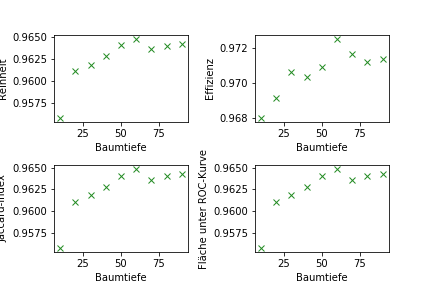
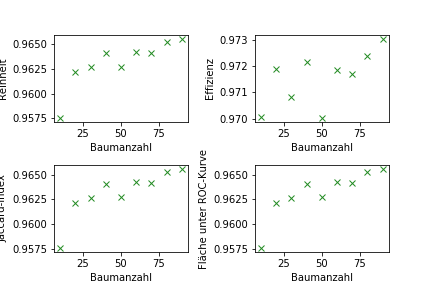
IceCube Protokoll

diff --git a/IceCube/content/theorie.tex b/IceCube/content/theorie.tex
@@ -1,19 +1,20 @@
 \section{Zielsetzung}
-Das Ziel des vorliegenden Versuchs ist es sich anhand von Monte-Carlo-Simulationsdaten mit der Neutrinoselektion am IceCube-Experiment vertraut zu machen. Zum Durchführen der Seperation werden verschiedene Methoden des Maschinellen Lernens verwendet.
+Das Ziel des vorliegenden Versuches ist es, sich anhand von Monte-Carlo-Simulationsdaten mit Methoden der Neutrinoselektion am IceCube-Experiment vertraut zu machen. Zum Durchführen der Seperation werden verschiedene Methoden des Maschinellen Lernens verwendet.
 \section{Theorie}
-Die aktuellen Erkenntnisse in der Astrophysik basierten darauf, dass im 20.Jahrhundert die optische Astronomie auf andere Wellenlängenbereiche erweitert werden konnte. Heutzutage werden neben dem optische Bereich, auch Radio-, Röntgen-, Infrarot-, und Ultraviolettastronomie entwickelt.\\
-Entscheidend ist zudem die durch Victor Heß im Jahre 1912 entdeckte Höhenstrahlung. Sie war bis in die 1950er Jahre die einzige Quelle hochenergetischer Teilchen. Ihre Entdeckung zeigte, dass die Erde bzw. die Atmosphäre neben Photonen auch von anderen Teilchen getroffen wird. Beim Auftreffen der geladenen kosmischen Strahlung ,der sogenannten Primärteilchen, kommt es zur Wechselwirkung mit der Atmosphäre, sodass Teilchenkaskaden aus Sekundärteilchen entstehen. Diese lassen sich über verschiedenen Methoden abhängig von ihren Teilcheneigenschaften nachweisen. Die geladenen kosmische Strahlung setzt sich neben Protonen aus Helium und anderen schweren Kernen zusammen, wobei die genau Zusammensetzung von dem Energiebereich abhängt. Dieses Spektrum wird durch ein Potenzgesetz beschrieben:
+\label{kap:Theorie}
+Die aktuellen Erkenntnisse in der Astrophysik basieren darauf, dass im 20. Jahrhundert die optische Astronomie auf andere Wellenlängenbereiche erweitert werden konnte. Heutzutage werden neben dem optischen Bereich, auch Radio-, Röntgen-, Infrarot-, und Ultraviolettastronomie entwickelt.\\
+Entscheidend ist zudem die durch Victor Heß im Jahre 1912 entdeckte Höhenstrahlung. Sie war bis in die 1950er Jahre die einzige Quelle hochenergetischer Teilchen. Ihre Entdeckung zeigte, dass die Erde bzw. die Atmosphäre neben Photonen auch von anderen Teilchen getroffen wird. Beim Auftreffen der geladenen kosmischen Strahlung, der sogenannten Primärteilchen, kommt es zur Wechselwirkung mit der Atmosphäre, sodass Teilchenkaskaden aus Sekundärteilchen entstehen. Diese lassen sich über verschiedene Methoden abhängig von ihren Teilcheneigenschaften nachweisen. Die geladene kosmische Strahlung setzt sich neben Protonen aus Helium und anderen schweren Kernen zusammen, wobei die genau Zusammensetzung von dem Energiebereich abhängt. Dieses Spektrum wird durch ein Potenzgesetz beschrieben:
 \begin{align}
 	\frac{\text{d}\Phi}{\text{d}E} = \Phi_{0} \cdot E^{\gamma}
 \end{align}
 Der spektrale Index $\gamma$ liegt für die geladene Höhenstrahlung bei $\gamma \approx -2.7$. Dies liegt vor allem daran, dass geladene Materie auf ihrem Weg zur Erde durch galaktische und extragalaktische Magnetfelder abgelenkt werden. Dies verhindert eine Richtungsrekonstruktion, sodass auch ihre Quellen bisher unbekannt sind.
 \subsection{Klassifizierung von Leptonen}
-Bei IceCube werden Leptonen, hauptsächlich Myonen und Neutrinos untersucht. Diese können sowohl aus der Höhenstrahlung als auch astrophysikalischen Quellen stammen und unterscheiden sich durch ihre Energieverteilung und damit dem spektralen Index. \\
-Die Atmosphärischen Myonen und Neutrinos werden außerdem in konventionelle und prompte unterschieden. Die Konventionellen entstehen, wenn bei der Wechselwirkung der geladenen kosmischen Strahlung Pionen oder Kaonen erzeugt werden. Durch ihre teilweise lange Lebensdauer verlieren diese Mesonen Energie, bevor sie in die konventionellen Myonen bzw. Neutrinos zerfallen. Daher gilt für das Spektrum der konventionellen Myonen und Neutrinos $\propto E^{-3.7}$.\\
+Bei IceCube werden Leptonen, hauptsächlich Myonen und Neutrinos, untersucht. Diese können sowohl aus der Höhenstrahlung, als auch astrophysikalischen Quellen stammen und unterscheiden sich durch ihre Energieverteilung und damit dem spektralen Index. \\
+Die Atmosphärischen Myonen und Neutrinos werden außerdem in Konventionelle und Prompte unterschieden. Die Konventionellen entstehen, wenn bei der Wechselwirkung der geladenen kosmischen Strahlung Pionen oder Kaonen erzeugt werden. Durch ihre teilweise lange Lebensdauer verlieren diese Mesonen Energie, bevor sie in die konventionellen Myonen bzw. Neutrinos zerfallen. Daher gilt für das Spektrum der konventionellen Myonen und Neutrinos $\propto E^{-3.7}$.\\
 Bei der Wechselwirkung der geladenen kosmischen Strahlung mit der Atmosphäre können jedoch auch kurzlebige, schwere Hadronen, wie $D$-Mesonen oder $\Lambda_{c}$-Baryonen entstehen. Diese zerfallen ohne nennenswerte Energieverluste weiter in die promten Myonen und Neutrinos. Daher ist deren Spektrum  $\propto E^{-2.7}$ und somit direkt vererbt von der geladenen kosmischen Strahlung.\\
-Es wird davon ausgegangen, dass astrophysikalische Quellen, die Hadronen beschleunigen auch Neutrinos und hochenergetische Photonen emittieren. Da sie ungeladen sind, werden sie nicht durch äußere Magnetfelder abgelenkt und liefern somit Informationen über ihren Ursprung. Der Vorteil von Neutrinos im Gegensatz zu Photonen ist, dass sie durch ihren sehr kleinen Wirkungsquerschnitt ebenfalls Staubwolken und optisch dichte Medien durchdringen können und somit Informationen über das optisch dichtere Innere eines astrophysikalischen Objektes liefern. Unter Annahme von Stoßbeschleunigung nach Fermi \cite{PhysRev.75.1169}, besitzt der astrophysikalische Neutrinofluss einen spektralen Index von  $\propto E^{-2}$.\\
+Es wird davon ausgegangen, dass astrophysikalische Quellen, die Hadronen beschleunigen, auch Neutrinos und hochenergetische Photonen emittieren. Da sie ungeladen sind, werden sie nicht durch äußere Magnetfelder abgelenkt und liefern somit Informationen über ihren Ursprung. Der Vorteil von Neutrinos im Gegensatz zu Photonen ist, dass sie durch ihren sehr kleinen Wirkungsquerschnitt ebenfalls Staubwolken und optisch dichte Medien durchdringen können und somit Informationen über das optisch dichtere Innere eines astrophysikalischen Objektes liefern. Unter Annahme von Stoßbeschleunigung nach Fermi \cite{PhysRev.75.1169}, besitzt der astrophysikalische Neutrinofluss einen spektralen Index von  $\propto E^{-2}$.\\
 \subsection{Das IceCube-Experiment}
-Das IceCube-Experiment wird zur Detektion von hochenergetischen Neutrinos und Myonen genutzt. Es befindet sich am geographischen Südpol in einer Tiefe von $1450-\SI{2450}{\meter}$ unter der Oberfläche in einer klaren Eisschicht. Insgesamt setzt sich der Detektor aus den drei Komponenten Ice-Top \cite{3246225}, In-Ice-Array \cite{ACHTERBERG2006155} und DeepCore \cite{2143409} zusammen. Eine schmatische Darstellung des Detektors befindet sich in Abbildung \ref{fig:Ice}.
+Das IceCube-Experiment wird zur Detektion von hochenergetischen Neutrinos und Myonen genutzt. Es befindet sich am geographischen Südpol in einer Tiefe von $1450-\SI{2450}{\meter}$ unter der Oberfläche in einer klaren Eisschicht. Insgesamt setzt sich der Detektor aus den drei Komponenten Ice-Top \cite{3246225}, In-Ice-Array \cite{ACHTERBERG2006155} und DeepCore \cite{2143409} zusammen. Eine schematische Darstellung des Detektors befindet sich in Abbildung \ref{fig:Ice}.
 \begin{figure}
   \centering
   \includegraphics[width=0.5\textwidth]{graphics/IceCube.png}
@@ -28,19 +29,19 @@ Neutrinos lassen sich bei IceCube über die Sekundärteilchen aus schwacher Wech
 	\nu_{l}(\bar{\nu_{l}}) + A \to l^{\mp} + X (\text{CC})\\
 	\nu_{l} + A \to \nu_{l} + X (\text{NC})
 \end{align}
-Elektronen produzierten auf Grund ihrer geringen Energie einen nahezu sphärischen Schauer im Detektor. Ähnlich verhält es sich für Tau-Leptonen, die auf Grund ihrer kurzen Lebensdauer auch nur eine geringe Reichweite haben, bevor sie zerfallen. Bei nicht zu hohen Energien ähnelt die Signatur somit stark der von Elektronen. \\
-Myonen hingegen haben eine lange Spur, dies liegt an ihrem deutlich langsarem Energieverlust und der daraus resultierenden großen Reichweite. Das Tscherenkov-Licht der Myon selbst ist jedoch zur schwach zur Detektion. Sie werden durch die Schauer der emittierten Photonen und Elektron-Positron-Paare detektiert.\\
+Elektronen produzieren auf Grund ihrer geringen Energie einen nahezu sphärischen Schauer im Detektor. Ähnlich verhält es sich für Tau-Leptonen, die auf Grund ihrer kurzen Lebensdauer auch nur eine geringe Reichweite haben, bevor sie zerfallen. Bei nicht zu hohen Energien ähnelt die Signatur somit stark der von Elektronen. \\
+Myonen hingegen haben eine lange Spur, dies liegt an ihrem deutlich langsameren Energieverlust und der daraus resultierenden großen Reichweite. Das Tscherenkov-Licht der Myonen selbst ist jedoch zu schwach zur Detektion. Sie werden durch die Schauer der emittierten Photonen und Elektron-Positron-Paare detektiert.\\
 Bei den schwachen Wechselwirkungen über neutrale Ströme werden die Kaskaden ausgelöst durch die hadronischen Sekundärteilchen beobachtet. Diese ähneln stark der durch Elektronen ausgelösten Schauer.
 
 \subsection{Messungen von Neutrinos mit IceCube}
 Bei der Messung von Ereignissen wird grundsätzlich zwischen zwei verschiedenen Arten unterschieden. Zum einen den sogenannten \textit{starting events}, die erst im Detektor selber entstehen und zum anderen, den Myon-Ereignissen, die den gesamten Detektor durchqueren. Der Vorteil dabei ist, dass diese zwar im Vergleich zu den \textit{starting events} eine schlechtere Energieauflösung besitzen, aber eine deutlich bessere Winkelauflösung. Die Selektion bei den beiden Ereignisarten unterscheidet sich jedoch grundlegend.\\
-Die Analysetechnik bei den \textit{starting events} nutzt den äußeren Abschnitt des Detektors als Veto, um atmosphärische Myonen zu verwerfen. Da alle Neutrinoflavour gleicher Maßen beitragen, stammen ein Großteil der Ereignisse aus Kaskaden von Wechselwickungen über den neutralen Strom oder Elektron- und Tauechselwirkungen über den geladenen Strom.\\
+Die Analysetechnik bei den \textit{starting events} nutzt den äußeren Abschnitt des Detektors als Veto, um atmosphärische Myonen zu verwerfen. Da alle Neutrinoflavour gleicher Maßen beitragen, stammen ein Großteil der Ereignisse aus Kaskaden von Wechselwickungen über den neutralen Strom oder Elektron- und Tauwechselwirkungen über den geladenen Strom.\\
 Bei den durchquerenden Myon-Ereignissen kann das effektive Volumen für die Analyse erweitert werden, indem die Erde als Abschirmung von atmosphärischen Myonen genutzt wird. Myonen, die von unterhalb des Detektors kommen, stammen somit aus Neutrinowechselwirkungen. Somit ermöglicht ein Schnitt im Zenitwinkel das Trennen von atmosphärischen Myonen und Myonen aus Neutrinowechselwirkungen. Ein Teil der Richtungsrekonstruktion verläuft jedoch fehlerhaft, sodass der Schnitt auf den rekonstruierten Zenitwinkel nur eine Verbesserung vom Signal-Untergrund-Verhältnis von $1:10^{6}$ auf $1:10^{3}$ bringt. Um das Signal-Untergrund-Verhältnis weiter zu verbessern, werden Methoden des Maschinellen Lernens verwendet.
 
 \subsection{Signal-Untergrund-Trennung mit Maschinellen Lernen}
 \label{Signal}
-Um Methoden des Maschinellen Lernens für die Signal-Untergrund-Trennung genutzt werden können. Müssen diese zunächst auf Monte-Carlo-Testdatensätze angewendet werden. Dazu werden zunächst Signal und Untergrund getrennt von einander simuliert. Um ein möglichst einheitliches Bild für beide Datensätze zu erhalten, werden alle Attribute, die nur in einem der beiden Datensätze vorkommen, entfernt. Zudem werden alle Monte-Carlo-Wahrheiten, Eventidentifikationsnummern und Gewichte entfernt. Um fehlerhafte Ergebnisse zu verhindern, müssen zudem Werte, die nicht als Zahl identifiziert werden können, wie zum Beispiel NaN oder Inf entfernt werden. Trifft das auf unter \SI{30}{\percent} der Werte eines Attributes zu, bietet es sich an, diese durch eine Alternative Zahl, die nicht im Wertebereich des Attributes liegt zu ersetzen. Andernfalls sollte auch dieses Attribut verworfen werden. Zudem müssen Signal und Untergrund mit einem binären Label von einander unterschieden werden.\\
-Da solche Datensätze oft eine Vielzahl an Attributen besitzen, bei denen zudem der Informationsgehalt in Bezug auf die Zielklasse sehr stark schwankt, bietet es sich an zuvor Attributsselektion durchzuführen. Damit wird die Laufzeit der multivarianten Lerner stark verringert. Ein mögliches Verfahren zu Attributsselektion ist die \textit{Forward Selection}.
+Um Methoden des Maschinellen Lernens für die Signal-Untergrund-Trennung nutzen zu können, müssen diese zunächst auf Monte-Carlo-Testdatensätze angewendet werden. Dazu werden zunächst Signal und Untergrund getrennt von einander simuliert. Um ein möglichst einheitliches Bild für beide Datensätze zu erhalten, werden alle Attribute, die nur in einem der beiden Datensätze vorkommen, entfernt. Zudem werden alle Monte-Carlo-Wahrheiten, Eventidentifikationsnummern und Gewichte entfernt. Um fehlerhafte Ergebnisse zu verhindern, müssen zudem Werte, die nicht als Zahl identifiziert werden können, wie zum Beispiel NaN oder Inf entfernt werden. Trifft das auf unter \SI{30}{\percent} der Werte eines Attributes zu, bietet es sich an, diese durch eine alternative Zahl, die nicht im Wertebereich des Attributes liegt, zu ersetzen. Andernfalls sollte auch dieses Attribut verworfen werden. Zudem müssen Signal und Untergrund mit einem binären Label von einander unterschieden werden.\\
+Da solche Datensätze oft eine Vielzahl an Attributen besitzen, bei denen zudem der Informationsgehalt in Bezug auf die Zielklasse sehr stark schwankt, bietet es sich an, zuvor eine Attributsselektion durchzuführen. Damit wird die Laufzeit der multivarianten Lerner stark verringert. Ein mögliches Verfahren zur Attributsselektion ist die \textit{Forward Selection}.
 \subsubsection{Vorwärtsauswahl}
 Die Vorwärtsauswahl (\textit{engl.: Forward Selection}) arbeitet iterativ und ist abhängig von dem verwendeten Lerner. Dieser erzeugt ein Modell, welchem die Vorwärtsauswahl iterativ die Variable hinzufügt, welche zusammen mit den bereits ausgwählten Variablen die Vorhersagekraft des Modells am meisten erhöht.
 \subsubsection{Stabilitätsanalyse mit dem Jaccard-Index}
@@ -53,7 +54,7 @@ Der Index $\hat{J}$ erlaubt die Ähnlichkeit verschiedener Selektionen zu beurte
 	\hat{J} = \frac{2}{l(l-1)} \sum^{l}_{i=1} \sum^{l}_{j=i+1} J(F_{i},F_{j})
 \end{align}
 
-Die Attributsauswahl ist stabil gegenüber statistischen Schwankungen, wenn der Wert nahe zu $1$ ergibt.
+Die Attributsauswahl ist stabil gegenüber statistischen Schwankungen, wenn der Wert nahezu $1$ ergibt.
 % \subsubsection{mRMR-Auswahl}
 % Die mRMR-Auswahl (\textit{engl.: minimum Redundancy, Maximum Relevance}) basiert auf der Betrachtung der Wahrscheinlichkeitsverteilungen der zur Verfügung stehend Varaiblen. Die mRMR-Selektion wählt dabei die Attribute iterativ aus, indem sie nach welchen sucht, die möglichst stark mit der Zielvariable, aber möglichst gering untereinander korreliert sind. Dabei nutzt sie unter anderem den gemeinsamen Informationsgehalt $I(x,y)$ zweier Variablen $x,y$:
 % \begin{align}
@@ -61,32 +62,33 @@ Die Attributsauswahl ist stabil gegenüber statistischen Schwankungen, wenn der 
 % \end{align}
 % Wobei $p(x), p(y)$ und $p(x,y)$ die Wahrscheinlichkeitsverteilungen der betreffenden Variablen sind. Die Zielvariable des vorliegenden Versuchs ist dabei die Klasse des Ereignisses, also ob es sich um ein Signal- oder Untergrundereignis handelt.
 \subsubsection{Verschiedene Lernalgorithmen}
-Ein Lernalgorithmus ist der Naive-Bayes-Lerner, der auf dem Bayes'schen Theorem über bedingte Wahrscheinlichkeiten basiert:
+Ein Lernalgorithmus ist der Naive-Bayes-Lerner, der auf dem Bayes'schen Theorem über bedingte Wahrscheinlichkeiten 
 \begin{align}
 	p(A|B) = \frac{p(B|A)p(A)}{p(B)}
 \end{align}
 basiert. Wenn $A$ die Klassenzugehörigkeit ($A$ Signal, $\bar{A}$ Untergrund) bezeichnet und $B$ ein Attribut ist, dann gilt für den Audruck
 \begin{align}
-	Q = \frac{p(A|B)}{p(\bar{A}|B)} = \frac{p(B|A)p(A)}{p(B|\bar{A})p(\bar{A})}
+	Q = \frac{p(A|B)}{p(\bar{A}|B)} = \frac{p(B|A)p(A)}{p(B|\bar{A})p(\bar{A})},
 \end{align}
-dass er einen Wert von mehr als 1 annimmt, wenn das Ereignis mit größerer Wahrscheinlichkeit Signal und nicht Untergrund ist. Unter der naiven Annahme, dass Attribute nur von der Klassenzugehörigkeit abhängen, ergibt die $Q$ mit mehreren Attributen zu:\\
+dass er einen Wert von mehr als 1 annimmt, wenn das Ereignis mit größerer Wahrscheinlichkeit Signal und nicht Untergrund ist. Unter der naiven Annahme, dass Attribute nur von der Klassenzugehörigkeit abhängen, ergibt sich $Q$ mit mehreren Attributen zu:\\
 \begin{align}
 	Q = \frac{p(A|B_{1},...,B_{n})}{p(\bar{A}|B_{1},...,B_{n})} = \prod_{i=1}^{n} \frac{p(B_{i}|A)}{p(B_{i}|\bar{A})}
 \end{align}
 Der kNN-Klassifikator (\textbf{k} \textbf{N}ächste \textbf{N}achbarn) klassifiziert die Klasse eines Ereignisses, indem er die $k$ umliegenden Ereignisse betrachtet und das Ereignis anhand des Mittelwerts der umliegenden Ereignisse klassifiziert.\\
-Ein dritter Klassifikator ist der Random Forest, der auf binären Entscheidungsbäumen basiert. Dabei wird an jedem Knoten eines Entscheidungsbaum ein Schnitt angewendet und die entstehenden Teilmengen werden auf die beiden Äste aufgeteilt. Dieses Verfahren wird entweder bis zu einer gewissen Tiefe fortgeführt oder bis die Blätter nur Ereignisse der selben Klasse erhalten. Um die Effekte des Übertrainierens zu minimieren, kann über eine Menge unterschiedlicher Entscheidungsbäume gemittelt werden. Eine mögliche Strategie dafür ist, dass jeder Baum nur auf einer Teilmenge des Trainingsdatensatz trainiert wird und die $k$ Attribute für den Schnitt an jedem Knoten zufällig gewählt werden. Die Confidence $c$, also Entscheidung des Random Forst ist das arithmetische Mittel über die Entscheidungen $P_{i}$ der $N$ Einzelbäume.
+Ein dritter Klassifikator ist der Random Forest, der auf binären Entscheidungsbäumen basiert. Dabei wird an jedem Knoten eines Entscheidungsbaum ein Schnitt angewendet und die entstehenden Teilmengen werden auf die beiden Äste aufgeteilt. Dieses Verfahren wird entweder bis zu einer gewissen Tiefe fortgeführt oder bis die Blätter nur Ereignisse der selben Klasse enthalten.
+Um die Effekte des Übertrainierens zu minimieren, kann über eine Menge unterschiedlicher Entscheidungsbäume gemittelt werden. Eine mögliche Strategie dafür ist, dass jeder Baum nur auf einer Teilmenge des Trainingsdatensatz trainiert wird und die $k$ Attribute für den Schnitt an jedem Knoten zufällig gewählt werden. Die Confidence $c$, also Entscheidung des Random Forst ist das arithmetische Mittel über die Entscheidungen $P_{i}$ der $N$ Einzelbäume.
 \begin{align}
 	c = \frac{1}{N} \sum_{i=1}^{N}P_{i} \; \text{mit} P_{i} \in \{0,1\}
 \end{align}
 \subsubsection{Qualitätsparameter}
-Die Güte einer Klassifikation lässt sich mit den Qualitätsparametern bewerten. Diese basierten auf der Anzahl der korrekt als Signal (\textit{tp, true positiv}) bzw. Untergrund (\textit{tn, true negativ}) und der fälschlicher Weise als Signal (\textit{fp, false positiv}) bze. Untergrund (\textit{fn, false negativ}) klassifizierten Ereignisse. Es lassen sich die beiden Parameter:
+Die Güte einer Klassifikation lässt sich mit den Qualitätsparametern bewerten. Diese basierten auf der Anzahl der korrekt als Signal (\textit{tp, true positiv}) bzw. Untergrund (\textit{tn, true negativ}) und der fälschlicher Weise als Signal (\textit{fp, false positiv}) bzw. Untergrund (\textit{fn, false negativ}) klassifizierten Ereignisse. Es lassen sich die beiden Parameter
 \begin{align}
-	\text{Reinheit} p &= \frac{tp}{tp+fp}\\
-	\text{Effizienz} r &= \frac{tp}{tp+fn}
+	\text{Reinheit}\, p &= \frac{tp}{tp+fp}\\
+	\text{Effizienz}\, r &= \frac{tp}{tp+fn}
 \end{align}
 bestimmen. Wichtig ist dabei, dass je nach Ziel der Analyse einer der beiden Parameter optimiert wird. Ist zum Beispiel eine sehr reine Trennung sehr wichtig, aber es ist nicht wichtig für statistische Untersuchungen eine gewisse Anzahl an Ereignissen zu haben, bietet es sich an die Reinheit zu maximieren.
 \subsubsection{Kreuzvalidierung}
-Die Kreuzvalidierung ist ein Werkzeug, dass es ermöglicht einen Fehler auf die Qualitätsparameter anzugeben. Dieser entsteht auf Grund von statistischen Schwankungen im Trainingsdatensatz. Dazu word der Trainingsdatensatz in $n$ Datensätze aufgeteilt. Von diesen Teildatensätzen werden $n-1$ zum trainieren des Lerners verwendet. Mit dem $n$-ten Datensatz wird schließlich die Klassifikation mit dem erhaltenden Lernen aufgestellt. Dieses Verfahren wird $n$-mal durchgeführt, sodass jeder Datensatz einmal Testdatensatz war. Aus den $n$ Qualitätsparametern lässt sich schließlich ein Mittelwert und der zugehörige Fehler auf diesen berechnen.
+Die Kreuzvalidierung ist ein Werkzeug, dass es ermöglicht einen Fehler auf die Qualitätsparameter anzugeben. Dieser entsteht auf Grund von statistischen Schwankungen im Trainingsdatensatz. Dazu wird der Trainingsdatensatz in $n$ Datensätze aufgeteilt. Von diesen Teildatensätzen werden $n-1$ zum trainieren des Lerners verwendet. Mit dem $n$-ten Datensatz wird schließlich die Klassifikation mit dem erhaltenden Lerner aufgestellt. Dieses Verfahren wird $n$-mal durchgeführt, sodass jeder Datensatz einmal Testdatensatz war. Aus den $n$ Qualitätsparametern lässt sich schließlich ein Mittelwert und der zugehörige Fehler auf diesen berechnen.
 \subsubsection{Monte-Carlo-Simulationen}
-Kann ein Experiment gar nicht oder nur sehr aufwendig analytisch beschrieben werden, bietet die Verwendung von Monte-Carlo-Simulationen eine Alternative. Dabei wird ein Experiment unter Verwenung von Zufallszahlen simuliert. \\
-In der Teilchenphysik werden sie häufig zum bereitstellen von Pseudodaten genutzt. Da die Eigenschaften der Signal- und Untergrundereignisse bekannt ist, bieten sie sich zum Beispiel zur Klassifizierung von Rekonstruktionsalgorithmen an. Analog können mir ihnen aber auch Analysen zur Signal-Untergrund-Trennung durchgeführt werden. Dieses Vorgehen wird in diesem Versuch durchgeführt.
+Kann ein Experiment gar nicht oder nur sehr aufwendig analytisch beschrieben werden, bietet die Verwendung von Monte-Carlo-Simulationen eine Alternative. Dabei wird ein Experiment unter Verwendung von Zufallszahlen simuliert. \\
+In der Teilchenphysik werden sie häufig zum Bereitstellen von Pseudodaten genutzt. Da die Eigenschaften der Signal- und Untergrundereignisse bekannt sind, bieten sie sich zum Beispiel zur Klassifizierung von Rekonstruktionsalgorithmen an. Analog können mit ihnen auch Analysen zur Signal-Untergrund-Trennung durchgeführt werden. Dieses Vorgehen wird in diesem Versuch durchgeführt.

diff --git a/IceCube/content/auswertung.tex b/IceCube/content/auswertung.tex
@@ -1,9 +1,174 @@
-\section{Auswertung}
+\section{Auswertung der Daten}
+Für die Auswertung der Daten werden im Folgenden die Pakete \textit{pandas} \cite{pandas}, \textit{numpy} \cite{numpy} und \textit{sklearn} \cite{sklearn} verwendet, während die Plots durch das Paket \textit{matplotlib.pyplot} \cite{matplotlib} erstellt werden.
 
+\subsection{Vorbereitung}
+Aus den Daten werden zu Beginn sowohl die Features entfernt, welche nicht in beiden Datensätzen zu finden sind, als auch die Features, welche Monte-Carlo-Wahrheiten, Identifikationsnummern oder Gewichte repräsentieren. Für das Letztere werden die Features mit den Stichworten
+\begin{itemize}
+    \item Corsica
+    \item MC
+    \item Weight
+    \item ID
+    \item Header
+    \item SPline
+\end{itemize}
+aus den Datensätzen entfernt. Übrig bleiben 188 Attribute, welche für die Lerner genutzt werden können.
 
+Des Weiteren werden alle Einträge, welche ein $NaN$ oder $Inf$ enthalten, durch den Wert $-5000$ ersetzt. Es kann angenommen werden, dass dieser Wert nicht auf natürliche Weise durch die simulierten Daten erreicht wird. 
+
+Die Daten werden im Anschluss durch die Zahlen 0 und 1 gelabelt, wobei die Zahl null für den Untergrund und die Zahl eins für das Signal verwendet wird. 
+
+Der Datensatz wird zudem mit der Funktion \textit{StandardScaler} skaliert.
+
+\subsection{Auswahl der Attribute}
+Die Features für die Lerner werden mit Hilfe einer Forward-Selection ausgewählt. Es wird die Implementierung \textit{SelectKBest} von \textit{sklearn.feature\_selection} verwendet. Die Anzahl der Features wird im Folgenden zunächst im Intervall von 20 bis 150 in Zehnerschritten varriiert. 
+
+Im Anschluss wird der Datensatz mittels \textit{train\_test\_split} in einen Test- und einen Trainingsdatensatz aufgeteilt. Hierbei werden $\SI{30}{\%}$ des Datensatzes zum Testen verwendet.
+
+\subsection{Random-Forest-Klassifikator}
+Als erster Lerner wird ein Random-Forest-Modell über die Funktion \textit{RandomForestClassifier} von \textit{sklearn.ensemble} mit einer Baumanzahl von 100 erstellt, die Lerndatensätze mit verschiedenen Featureanzahlen trainiert und anschließend die Klassen der Testdatensätze vorhergesagt. Aus diesen Informationen werden anschließend die Reinheit mittels der Funktion \textit{accuracy\_score}, die Effizienz mittels \textit{precision\_score}, der Jaccard-Index mittels \textit{jaccard\_similarity\_score} und die Fläche unter der ROC-Kurve mit der Funktion \textit{roc\_auc\_score} nach den Zusammenhängen aus Kapitel \ref{kap:Theorie} berechnet und in Abhängigkeit von der Featureanzahl in Abbildung \ref{fig:RF_Feat} abgebildet.
+\begin{figure}
+    \centering
+    \includegraphics[width=0.7\textwidth]{plots/RF_featurezahl.png}
+    \caption{Qualitätsparameter der Random-Forest-Klassifizierung in Abhängigkeit von der Featureanzahl. Von links oben: Reinheit, Effizienz, Jaccard-Index und Fläche unter der ROC-Kurve.}
+    \label{fig:RF_Feat}
+  \end{figure}
+  \FloatBarrier
+  Alle vier Parameter steigen zu Beginn um etwa zwei Prozentpunkte an und gehen dann anschließend in eine Sättigung über. Als beste Featureanzahl wird der erste Wert im Sättigungsbereich verwendet, welcher durch den Wert 40 gegeben ist. Für diese wird die Random-Forest-Klassifizierung erneut für zehn verschiedene Baumanzahlen im Bereich von 10 bis 100 durchgeführt. Die Qualitätsparameter für die unterschiedlichen Baumzahlen sind Abbildung \ref{fig:RF_Tiefe} zu entnehmen.
+  \begin{figure}
+    \centering
+    \includegraphics[width=0.7\textwidth]{plots/RF_baumtiefe.png}
+    \caption{Qualitätsparameter der Random-Forest-Klassifizierung in Abhängigkeit von der Baumanzahl. Von links oben: Reinheit, Effizienz, Jaccard-Index und Fläche unter der ROC-Kurve.}
+    \label{fig:RF_Tiefe}
+  \end{figure}
+  \FloatBarrier
+  Es lässt sich erkennen, dass die Baumanzahl lediglich einen sehr geringen Einfluss von weniger als einen Prozentpunkt auf die Qualitätsparameter hat. Um Rechenzeit zu sparen wird deshalb im Folgenden eine minimale Baumanzahl von 10 verwendet.
+
+  Für die gefundenen Parameter wird eine Cross-Validation durchgeführt. Hierzu wird die Funktion \textit{cross\_val\_score} genutzt und der Datensatz in 5 Teile gesplittet.
+  Die gefundenen Qualitätsparameter sind in Tabelle \ref{tab:RF} dargestellt und werden über die 5 Durchläufe gemittelt.
+  \begin{table}[ht]
+    \centering
+    \caption{Qualitätsparameter der Cross-Validation für den Random-Forest-Klassifikator.}
+    \label{tab:RF}
+    \sisetup{table-format=2.1}
+    \begin{tabular} { c | c c c}
+    \toprule
+    {} & {Reinheit} & {Effizienz} & {AUC} \\
+    \midrule
+        & 0.914 & 0.881 & 0.975 \\
+       & 0.955 & 0.975 &  0.989\\
+       & 0.961 & 0.984 &  0.992\\
+       & 0.960 & 0.985 &  0.991 \\
+       & 0.962 & 0.985 &  0.994 \\
+    \midrule
+      Mittelwert & 0.950 \pm 0.009 & 0.962 \pm 0.020 &  0.988 \pm 0.003 \\
+    \bottomrule
+    \end{tabular}
+    \end{table}
+    \FloatBarrier 
+Zuletzt wird die Vorhersagekraft des besten Random-Forest-Modells in einer sogenannten Confusion-Matrix (deutsch: Wahrheits-Matrix) dargestellt. Diese stellt die Rate der richtig bzw. falsch zugeordneten Klassen dar. Das Label 0 repräsentiert hierbei den Untergrund und der Wert 1 das Signal. Die Matrix wird über die Funktion \textit{confusion\_matrix} berechnet und über die Funktion \textit{plot\_confusion\_matrix} nach \textit{sklearn} geplottet. Die Confusion-Matrix für den Random-Forest-Klassifikator ist in Abbildung \ref{fig:RF_Conf} zu sehen.
+\begin{figure}
+    \centering
+    \includegraphics[width=0.7\textwidth]{plots/RF_confusion.png}
+    \caption{Confusion-Matrix für den Random-Forest-Klassifikator mit einer Tiefe von 10 und einer Featureanzahl von 40 (0: Untergrund, 1: Signal).}
+    \label{fig:RF_Conf}
+  \end{figure}
+  \FloatBarrier
+
+  \subsection{kNN-Klassifikator}
+  Das kNN-Klassifikator-Modell wird mittels der Funktion \textit{KNeighborsClassifier} von \textit{sklearn.neighbors} erstellt. Für eine Nachbaranzahl von 10 werden zunächst analog zum Random-Forest-Klassifikator die Qualitätsparameter für unterschiedliche Featureanzahlen ermittelt und in Abbildung \ref{fig:kNN_feat} dargestellt.
+  \begin{figure}
+    \centering
+    \includegraphics[width=0.7\textwidth]{plots/kNN_featurezahl.png}
+    \caption{Qualitätsparameter der kNN-Klassifizierung in Abhängigkeit von der Featureanzahl. Von links oben: Reinheit, Effizienz, Jaccard-Index und Fläche unter der ROC-Kurve.}
+    \label{fig:kNN_feat}
+  \end{figure}
+  \FloatBarrier
+Es lässt sich eine Schwankung um etwa zwei Prozentpunkte mit einem klaren Maximum bei einer Featureanzahl von 50 erkennen. Dieser Wert wird im Folgenden als Bestwert verwendet.
+Außerdem werden die Qualitätsparameter erneut in Abhängigkeit von der Anzahl an nächsten Nachbarn ermittelt und in Abbildung \ref{fig:kNN_nachbarn} aufgetragen. Die Nachbaranzahl wird hierbei von 10 bis 100 in Zehnerschritten varriiert.
+\begin{figure}
+    \centering
+    \includegraphics[width=0.7\textwidth]{plots/kNN_nachbarzahl.png}
+    \caption{Qualitätsparameter der kNN-Klassifizierung in Abhängigkeit von der Anzahl an Nachbarn. Von links oben: Reinheit, Effizienz, Jaccard-Index und Fläche unter der ROC-Kurve.}
+    \label{fig:kNN_nachbarn}
+  \end{figure}
+  \FloatBarrier
+Es lässt sich ein kontinuierlicher Abfall der Werte mit der Anzahl der Nachbarn um etwa einen halben Prozentpunkt beobachten. Aus diesem Grund wird als bester Fall die Nachbaranzahl 10 festgelegt.
+Im Anschluss wird analog zum vorherigen Unterkapitel eine Cross-Validation für das beste Modell durchgeführt. Die Ergebnisse sind in Tabelle \ref{tab:kNN} abgebildet.
+\begin{table}[ht]
+    \centering
+    \caption{Qualitätsparameter der Cross-Validation für den kNN-Klassifikator.}
+    \label{tab:kNN}
+    \sisetup{table-format=2.1}
+    \begin{tabular} { c | c c c}
+    \toprule
+    {} & {Reinheit} & {Effizienz} & {AUC} \\
+    \midrule
+        & 0.886 & 0.854 & 0.961 \\
+       & 0.945 & 0.958 &  0.985\\
+       & 0.953 & 0.976 &  0.988\\
+       & 0.952 & 0.977 &  0.987 \\
+       & 0.953 & 0.978 &  0.988 \\
+    \midrule
+      Mittelwert & 0.938 \pm 0.013 & 0.949 \pm 0.024 &  0.982 \pm 0.005 \\
+    \bottomrule
+    \end{tabular}
+    \end{table}
+    \FloatBarrier 
+Die Confusion-Matrix für das beste Modell ist in Abbildung \ref{fig:kNN_conf} zu erkennen.
+\begin{figure}
+    \centering
+    \includegraphics[width=0.7\textwidth]{plots/kNN_confusion.png}
+    \caption{Confusion-Matrix für den kNN-Klassifikator mit einer Nachbaranzahl von 10 und einer Featureanzahl von 50 (0: Untergrund, 1: Signal).}
+    \label{fig:kNN_conf}
+  \end{figure}
+  \FloatBarrier
+
+\subsection{Naive-Bayes-Lerner}
+Als dritter Klassifikator wird ein Naive-Bayes-Lerner über die Funktion \textit{GaussianNB} von \textit{sklearn.naive\_bayes} verwendet. Analog zu den vorherigen Kapiteln werden zunächst erneut die Qualitätsparameter in Abhängigkeit von der Featureanzahl ermittelt und in Abbildung \ref{fig:NB_feat} dargestellt.
 \begin{figure}
   \centering
-  \includegraphics{plots/plot.pdf}
-  \caption{Plot.}
-  \label{fig:plot}
+  \includegraphics[width=0.7\textwidth]{plots/NB_featurezahl.png}
+  \caption{Qualitätsparameter der Naive-Bayes-Klassifizierung in Abhängigkeit von der Featureanzahl. Von links oben: Reinheit, Effizienz, Jaccard-Index und Fläche unter der ROC-Kurve.}
+  \label{fig:NB_feat}
 \end{figure}
+\FloatBarrier
+Die Werte steigen zunächst kontinuierlich an und nehmen ein Maximum bei $k_\mathrm{NB} = 60$ an. Anschließend fallen sie mit einigen Schwankungen wieder ab. Der maximale Wert wird als Bestwert für die Featureanzahl festgelegt. 
+Anschließend wird erneut eine Cross-Validation durchgeführt und die Ergebnisse in Tabelle \ref{tab:NB} aufgeführt.
+\begin{table}[ht]
+  \centering
+  \caption{Qualitätsparameter der Cross-Validation für den Naive-Bayes-Klassifikator.}
+  \label{tab:NB}
+  \sisetup{table-format=2.1}
+  \begin{tabular} { c | c c c}
+  \toprule
+  {} & {Reinheit} & {Effizienz} & {AUC} \\
+  \midrule
+      & 0.805 & 0.764 & 0.862 \\
+     & 0.795 & 0.720 &  0.922\\
+     & 0.867 & 0.855 &  0.938\\
+     & 0.861 & 0.844 &  0.935 \\
+     & 0.870 & 0.867 &  0.939 \\
+  \midrule
+    Mittelwert & 0.840 \pm 0.016& 0.810 \pm 0.029 &  0.919 \pm 0.015 \\
+  \bottomrule
+  \end{tabular}
+  \end{table}
+  \FloatBarrier 
+  Die Confusion-Matrix für den Naive-Bayes-Lerner ist in Abbildung \ref{fig:NB_conf} zu sehen.
+  \begin{figure}
+    \centering
+    \includegraphics[width=0.7\textwidth]{plots/NB_confusion.png}
+    \caption{Confusion-Matrix für den Naive-Bayes-Klassifikator mit Featureanzahl von 60 (0: Untergrund, 1: Signal).}
+    \label{fig:NB_conf}
+  \end{figure}
+  \FloatBarrier
+
+  \subsection{Zusammenfassung}
+  In Abbildung \ref{fig:roc} ist die ROC-Kurve für die besten Modelle der drei verwendeten Lerner abgebildet. Hierzu wird die Funktion \textit{roc\_curve} von \textit{sklearn.metrics} verwendet. Für eine ideale Trennung der Klassen, würde die Kurve parallel zur $y$-Achse auf den Wert $1$ ansteigen und anschließend parallel zur $x$-Achse verlaufen. Für den Fall, dass die Klassen nur sehr schlecht voneinander getrennt werden können, hat die ROC-Kurve die Form einer Diagonalen durch den Nullpunkt.
+  \begin{figure}
+    \centering
+    \includegraphics[width=0.7\textwidth]{plots/roc_kurve.png}
+    \caption{ROC-Kurve für die besten Modelle des Random-Forest-Klassifikators (grün), des kNN-Klassifikators (rot) und des Naive-Bayes-Lerner (blau). Für einen idealen Klassifiaktor wird für alle $x$- Werte zwischen null und eins der $y$-Wert eins angenommen.}
+    \label{fig:roc}
+  \end{figure}
+  \FloatBarrier

diff --git a/IceCube/content/diskussion.tex b/IceCube/content/diskussion.tex
@@ -1,1 +1,29 @@
 \section{Diskussion}
+In Tabelle \ref{tab:param} sind die Qualtiätsparameter der drei Lerner zusammengefasst.
+\begin{table}[ht]
+    \centering
+    \caption{Übersicht über die Qualitätsparameter der besten Modelle der verwendeten Lerner.}
+    \label{tab:param}
+    \sisetup{table-format=2.1}
+    \begin{tabular} { c | c c c}
+    \toprule
+    {} & {Reinheit} & {Effizienz} & {AUC} \\
+    \midrule
+      Random-Forest  & 0.950 \pm 0.009 & 0.962 \pm 0.020 &  0.988 \pm 0.003 \\
+      kNN & 0.938 \pm 0.013 & 0.949 \pm 0.024 &  0.982 \pm 0.005 \\
+      Naive-Bayes & 0.840 \pm 0.016& 0.810 \pm 0.029 &  0.919 \pm 0.015 \\
+    \bottomrule
+    \end{tabular}
+    \end{table}
+    \FloatBarrier 
+Alle Parameter nehmen im Idealfall den Wert 1 an.
+Anhand der Werte lässt sich erkennen, dass der Random-Forest- und der kNN-Klassifikator ähnlich gute Ergebnisse liefern, während der Naive-Bayes-Lerner deutlich niedrigere Werte aufweist. Zusammenfassend lässt sich aussagen, dass alle Lerner gute Ergebnisse liefern.
+
+Dieses lässt sich auch in den ROC-Kurven in Abbildung \ref{fig:roc} erkennen.
+--------------------------warten bis Kurve repariert-------------
+
+Des Weiteren lassen sich lediglich leichte Schwankungen der Qualitätsparameter mit Variation des Modelles erkennen. Bei Variation der Baumanzahl für den Random-Forest-Lerner bzw. der Anzahl der nächsten Nachbarn für den kNN-Lerner werden Schwankungen um unter einem Prozentpunkt beobachtet.
+Anders verhält sich dieses bei der Anzahl an ausgewählten Features: Diese liefert, abhängig vom Lerner, Schwankungen um bis zu sechs Prozentpunkte. Sowohl die Verläufe, als auch die effizientesten Werte varriieren unter den Lernen.
+Den stabilsten Verlauf unter Variation des Modelles liefert der Random-Forest-Lerner.
+
+Zusammenfassend lässt sich anhand der Versuchsergebnisse aussagen, dass sich das Verwenden von Maschinellen-Lernen-Methoden sehr gut dazu eignet, um das Signal der simulierten IceCube-Daten vom Untergrund zu trennen. 

diff --git a/IceCube/content/durchfuehrung.tex b/IceCube/content/durchfuehrung.tex
@@ -1,3 +1,3 @@
 \section{Durchführung}
-Zunächst wird der Datensatz wie in Kapitel \ref{Signal} aufbereitet. Danach lässt sich mit Hilfe der Vorwärtsselektion eine Attributsauswahl treffen. Mit den ausgewählten Attributen wird anschließend eine Seperation mit verschiedenen Lernern durchgeführt. Dabei erfolgt die Seperation mit einem Naiven-Bayes-Klassifikator, einen kNN-Klassifikator und einem Random-Forest-Klassifikator. \\
-Um einen Vergleich der verschiedenen Lerner zu ermöglichen, werden zuletzt die Qualitätsparameter für alle drei Methoden bestimmt und verglichen.
+Zunächst wird der Datensatz wie in Kapitel \ref{Signal} aufbereitet. Danach lässt sich mit Hilfe der Vorwärtsselektion eine Attributsauswahl treffen. Mit den ausgewählten Attributen wird anschließend eine Separation mit verschiedenen Lernern durchgeführt. Dabei erfolgt die Separation mit einem Naiven-Bayes-Klassifikator, einen kNN-Klassifikator und einem Random-Forest-Klassifikator. \\
+Um einen Vergleich der verschiedenen Lerner zu ermöglichen, werden zudem die Qualitätsparameter für alle drei Methoden bestimmt und verglichen.

diff --git a/IceCube/main.tex b/IceCube/main.tex
@@ -14,7 +14,8 @@
  \begin{center}
 
 
-\textsc{\LARGE FPII Teilchenphysik}\\[1.5cm]
+  \textsc{\Large Schwerpunktspraktikum Teilchenphysik \& Detektoren}\\[1.5cm]
+  \textsc{\LARGE Praktikumsprotokoll}\\[1.5cm]
 \textsc{\huge Datenanalyse mit IceCube-Monte-Carlo-Simulationsdaten} \\[5,5cm]
 
 Janina Nicolini\footnotemark[1], \\
